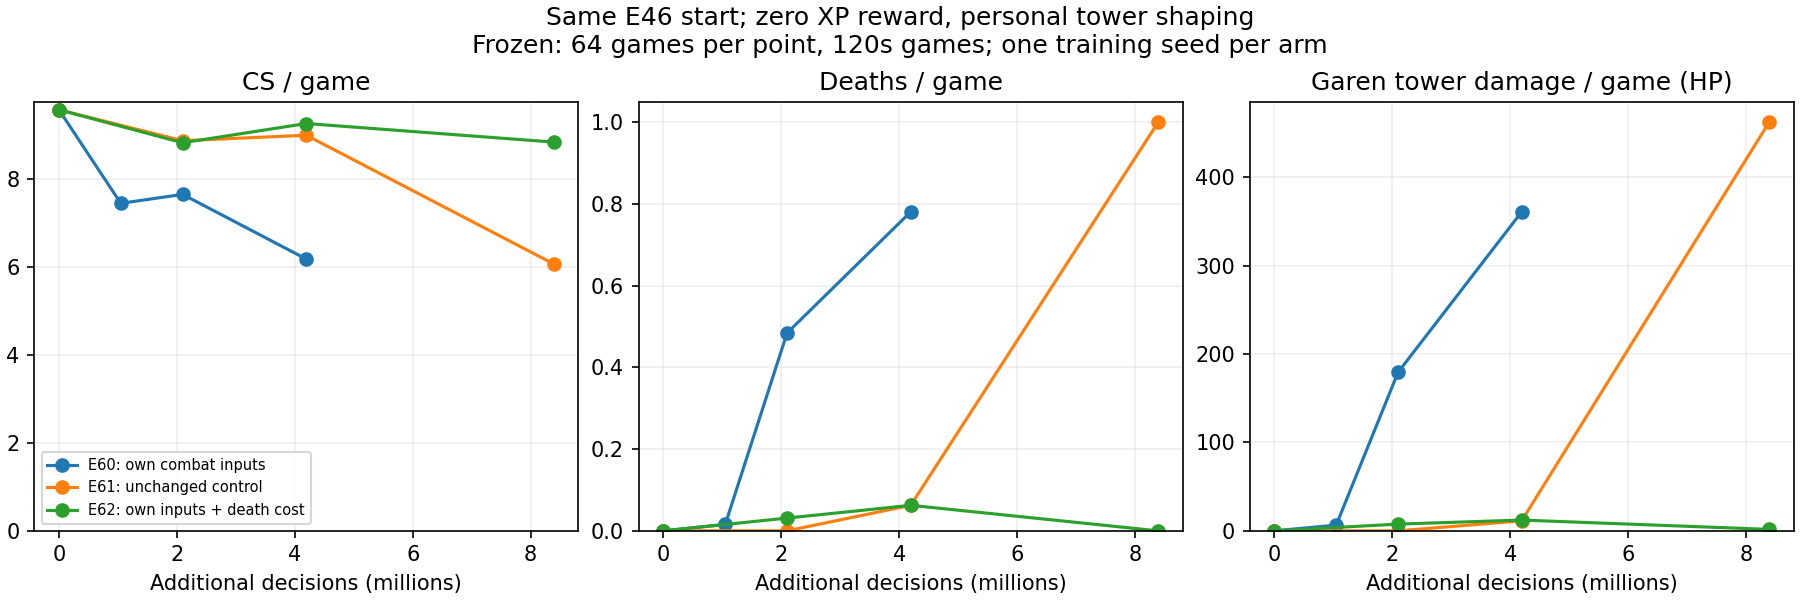
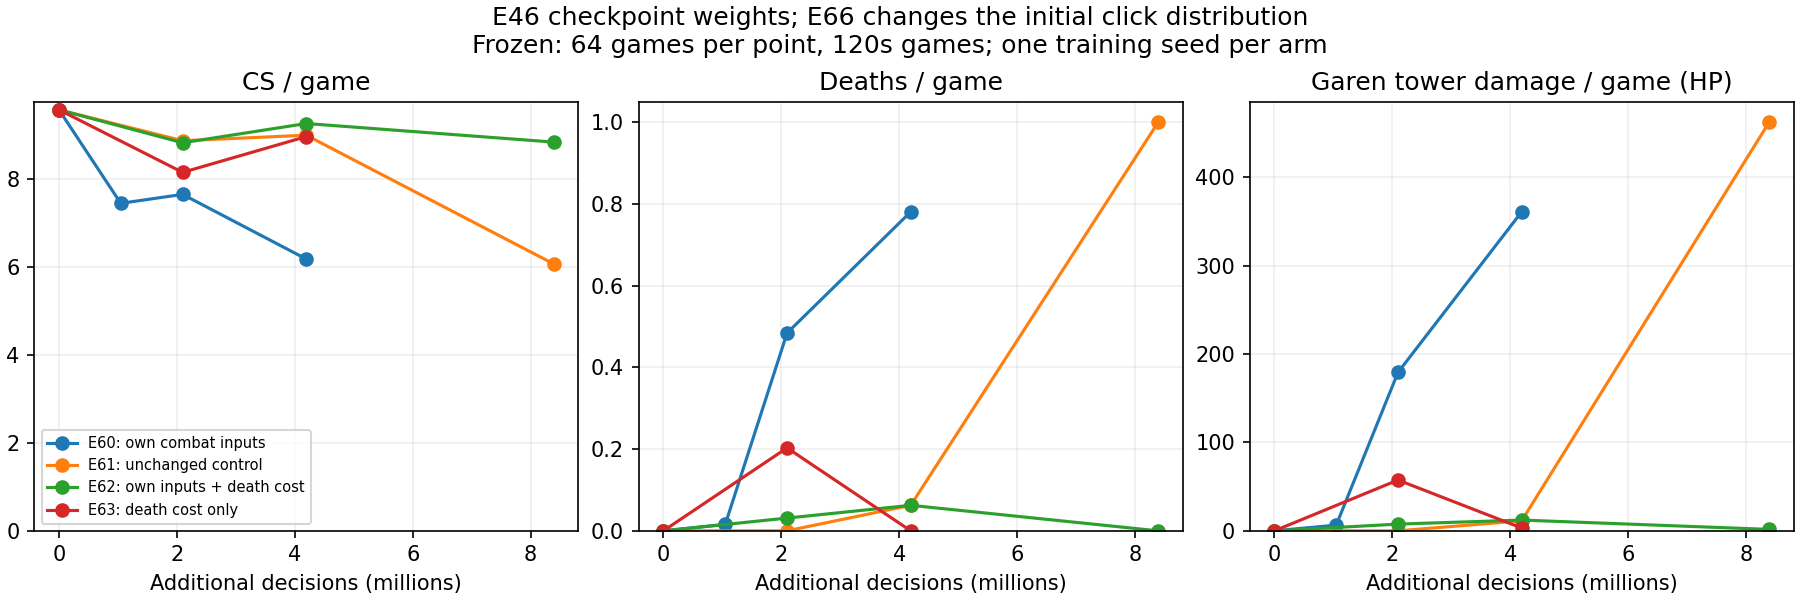
Support fresh frozen evaluation seeds and targeting comparison curves

diff --git a/ops/figures/afk_lr_comparison.py b/ops/figures/afk_lr_comparison.py
@@ -1,4 +1,4 @@
-"""TOOL: frozen AFK comparison; --group debug plots E60/E61/E62 as available."""
+"""TOOL: frozen AFK comparison; --group debug plots the current debugging arms."""
 import argparse,json
 from pathlib import Path
 import matplotlib
@@ -11,7 +11,7 @@ parser.add_argument('--group',choices=['lr','debug'],default='lr')
 group=parser.parse_args().group
 experiments=[('E50_afk_personal_lr3e5','LR 0.00003'),('E51_afk_personal_lr1e4','LR 0.0001'),('E52_afk_entropy','LR 0.0001 + entropy 0.01'),('E53_afk_shared_critic','LR 0.0001 + shared critic')]
 if group=='debug':
- experiments=[('E60_afk_own_action','E60: own combat inputs'),('E61_afk_long_control','E61: unchanged control'),('E62_afk_own_death_cost','E62: own inputs + death cost')]
+ experiments=[('E60_afk_own_action','E60: own combat inputs'),('E61_afk_long_control','E61: unchanged control'),('E62_afk_own_death_cost','E62: own inputs + death cost'),('E63_afk_death_control','E63: death cost only'),('E66_afk_click_proposals','E66: death cost + click proposals')]
 fig,axes=plt.subplots(1,3,figsize=(12,4),layout='constrained')
 for exp,label in experiments:
  study_path=Path('/mnt/nfs/checkpoints/lanerl-jax',exp,'study.json')
@@ -29,6 +29,8 @@ for exp,label in experiments:
 axes[0].legend(fontsize=7)
 for ax in axes:ax.set_ylim(bottom=0)
 if group=='lr':axes[0].set_ylim(0,12)
-fig.suptitle('Same E46 start; zero XP reward, personal tower shaping\nFrozen: 64 games per point, 120s games; one training seed per arm')
+fig.suptitle(('E46 checkpoint weights; E66 changes the initial click distribution' if group=='debug' else
+             'Same E46 start; zero XP reward, personal tower shaping')+
+            '\nFrozen: 64 games per point, 120s games; one training seed per arm')
 p=ROOT/'docs/figures'/('E50_E51_comparison.png' if group=='lr' else 'afk_debug_comparison.png')
 fig.savefig(p,dpi=150);print(p)

diff --git a/lanerl_jax/train/wave_scenario_train.py b/lanerl_jax/train/wave_scenario_train.py
@@ -178,7 +178,7 @@ def main():
     for mode in (('afk',) if spec.get('opponent')=='afk' else ('mirror','frozen')):
         ecfg=cfg._replace(n_envs=64,opponent=mode,bank_size=len(eval_bank.t_ms))
         eb=make_vec_train(ecfg,sim,eval_bank,opponent_params=opponent_params if mode=='frozen' else None)
-        er=eb['initial_runner'](jax.random.key(2007),params)
+        er=eb['initial_runner'](jax.random.key(int(spec.get('eval_seed',2007))),params)
         indices=jnp.arange(ecfg.n_envs)%len(eval_bank.t_ms)
         er=er._replace(env_state=jax.tree.map(lambda b:b[indices],eval_bank))
         print('COMPILE eval',mode,flush=True)

diff --git a/docs/JAX_FIDELITY_LEDGER.md b/docs/JAX_FIDELITY_LEDGER.md
@@ -655,3 +655,5 @@ History lives in `docs/EXPERIMENTS.md` and `docs/JAX_FIDELITY_LEDGER.md`.
 | LEARN-AFK-19 implementation / CPU validation | Opt-in click_proposals adds two namedheads (query/gate), initial10percent learned candidate mass; oldweights/core/value retained. Candidates are projected visible hostile centres; no HP ranking/privilegedentityID. Exact joint distribution sums duplicatecells; shared sampling/logprob/entropy/postKL/priorKL and greedy driver respect it.3newCPUtests pass (mixture/sample/entropy/mask/emptygradient/migration/newheadgradient);21existing PPO/mask/reference regressions pass. Implemented projection hits target in16/16saved cases, same.03503 hypothetical mass. | Newphysical distribution intentionally differs fromold; E66 must improve its own measuredinitial aswellas original. FullsizeGPU/realGRU update canary pending. Defaults stayoff; no running experiment altered. E64/E65 remain prepared; targeted E66 prioritized next over generic tuning based on measured click sparsity. |
 
 | LEARN-AFK-15 E63 interim | Frozen1288.140625CS/.203125deaths/57.47196towerHP/reward.15175;2568.953125CS/0deaths/3.19188towerHP/reward5.53388. | Recovers survival but remains beloworiginal9.5625CS. Complete512budget; E66 targeting candidate queued next. |
+
+| LEARN-AFK-19 evaluation support | Waveworker optional eval_seed defaults2007, unchanged existing comparisons; enables a fresh frozen sampling cohort in any independentseed replication. Debug figure includes E63/E66 as available and explicitly notes E66 changes initial action distribution despite preserving checkpoint weights. | No new seed run launched; fresh evaluation must compare its own initial policy rather than assuming old9.5625 baseline applies. |

diff --git a/docs/CODEMAP.md b/docs/CODEMAP.md
@@ -51,7 +51,7 @@ TOOL: `ops/slurm_event_bridge.py`: reusable bounded single-job completion/failur
 
 TOOL: `ops/figures/afk_training_curve.py` regenerates `docs/figures/E46_training_curve.png` from frozen E46 evals and labeled train diagnostics.
 
-TOOL: `ops/figures/afk_lr_comparison.py` regenerates the E50–E53 frozen CS/deaths/personal tower comparison in `docs/figures/E50_E51_comparison.png`; `--group debug` plots available E60/E61/E62 frozen results in `docs/figures/afk_debug_comparison.png` (skips runs without results).
+TOOL: `ops/figures/afk_lr_comparison.py` regenerates the E50–E53 frozen CS/deaths/personal tower comparison in `docs/figures/E50_E51_comparison.png`; `--group debug` plots available E60/E61/E62/E63/E66 frozen results in `docs/figures/afk_debug_comparison.png` (skips runs without results).
 
 TOOL: `slurm/credit_audit.sbatch` / `credit-audit` launcher engine executes indexed E54 AFK learning diagnostic; `Transition.cs_delta` is exact per-decision CS telemetry.
 
